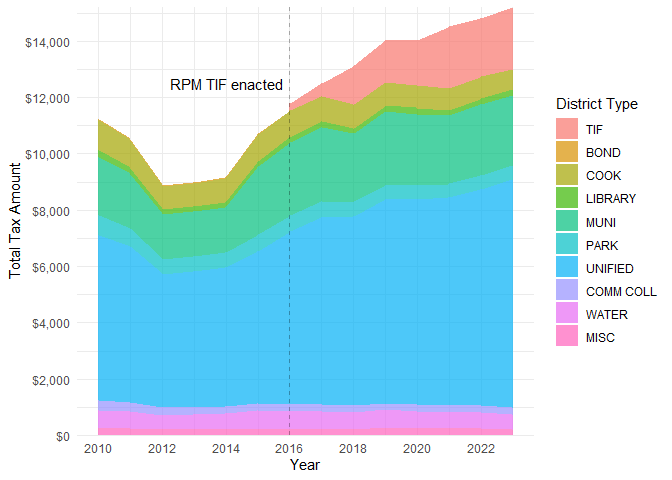
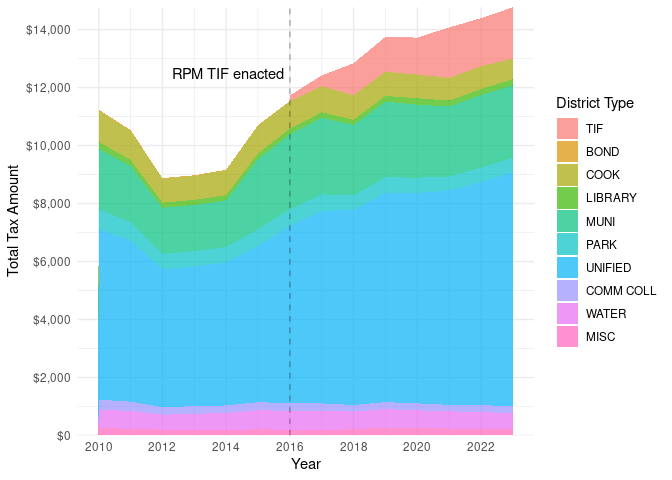
Update configs and workflows to point to 2024 pre-release DB for testing and documentation (#70)
* Update DESCRIPTION and `prepare-ptaxsim` action to point to pre-release 2024 database

* Update README DB version string to support pre-release versions

* Fix unit test that checks tax_bill output to include new 100% vetdis exemption

* Reknit README with pre-release 2024 DB version

* Revert to old DB version regex pattern in readme_db_version in tests

Pull request: Update configs and workflows to point to 2024 pre-release DB for testing and documentation
This PR makes a few changes on top of https://github.com/ccao-data/ptaxsim/pull/69 to get a few tricky tests passing:

- Updates `Config/Wants_DB_Version` in the `DESCRIPTION` file to point to the pre-release version of the 2024 database, so that our GitHub workflows will pull this version of the database for testing
- Reknits the README so that it includes references to the 2024.0.0 database, which is necessary in order to get tests passing that check to ensure the README DB version matches the `DESCRIPTION` file
- Tweaks the test that checks the output columns for the `lookup_pin()` function to make sure it expects the new `exe_vet_dis_100` column

diff --git a/README.md b/README.md
@@ -36,13 +36,13 @@ Table of Contents
 > installation](#database-installation) for details.
 >
 > [**Link to PTAXSIM
-> database**](https://ccao-data-public-us-east-1.s3.amazonaws.com/ptaxsim/ptaxsim-2023.0.0.db.bz2)
-> (DB version: 2023.0.0; Last updated: 2024-08-05 19:43:42)
+> database**](https://ccao-data-public-us-east-1.s3.amazonaws.com/ptaxsim/ptaxsim-2024.0.0-alpha.1.db.bz2)
+> (DB version: 2024.0.0; Last updated: 2026-03-18 20:38:53)
 
 PTAXSIM is an R package/database to approximate Cook County property tax
 bills. It uses real assessment, exemption, TIF, and levy data to
 generate historic, line-item tax bills (broken out by taxing district)
-for any property from 2006 to 2023. Given some careful assumptions and
+for any property from 2006 to 2024. Given some careful assumptions and
 data manipulation, it can also provide hypothetical, but factually
 grounded, answers to questions such as:
 
@@ -172,9 +172,9 @@ database:
 
 1.  Download the compressed database file from the CCAO’s public S3
     bucket. [Link
-    here](https://ccao-data-public-us-east-1.s3.amazonaws.com/ptaxsim/ptaxsim-2023.0.0.db.bz2).
+    here](https://ccao-data-public-us-east-1.s3.amazonaws.com/ptaxsim/ptaxsim-2024.0.0-alpha.1.db.bz2).
 2.  (Optional) Rename the downloaded database file by removing the
-    version number, i.e. ptaxsim-2023.0.0.db.bz2 becomes
+    version number, i.e. ptaxsim-2024.0.0.db.bz2 becomes
     `ptaxsim.db.bz2`.
 3.  Decompress the downloaded database file. The file is compressed
     using [bzip2](https://sourceware.org/bzip2/).
@@ -640,7 +640,7 @@ multiple_years_plot <- ggplot(data = multiple_years_summ) +
 
 </details>
 
-<img src="man/figures/README-multi_year_4-1.png" width="85%" />
+<img src="man/figures/README-multi_year_4-1.png" alt="" width="85%" />
 
 For more advanced usage, such as counterfactual analysis, see the
 [vignettes